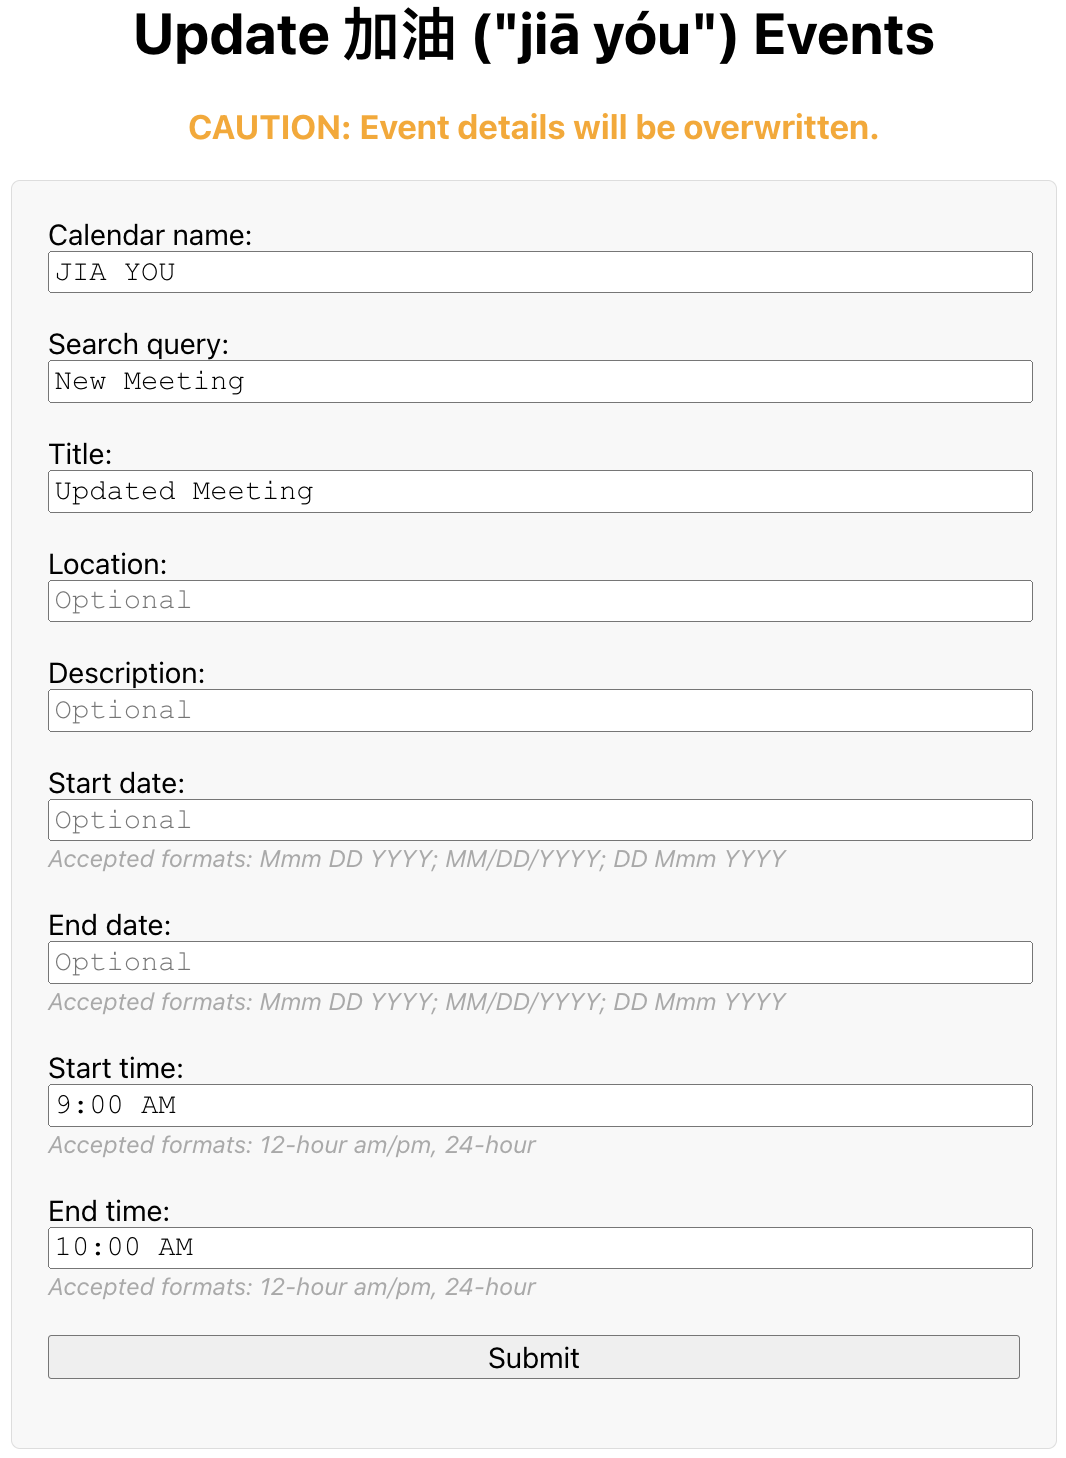
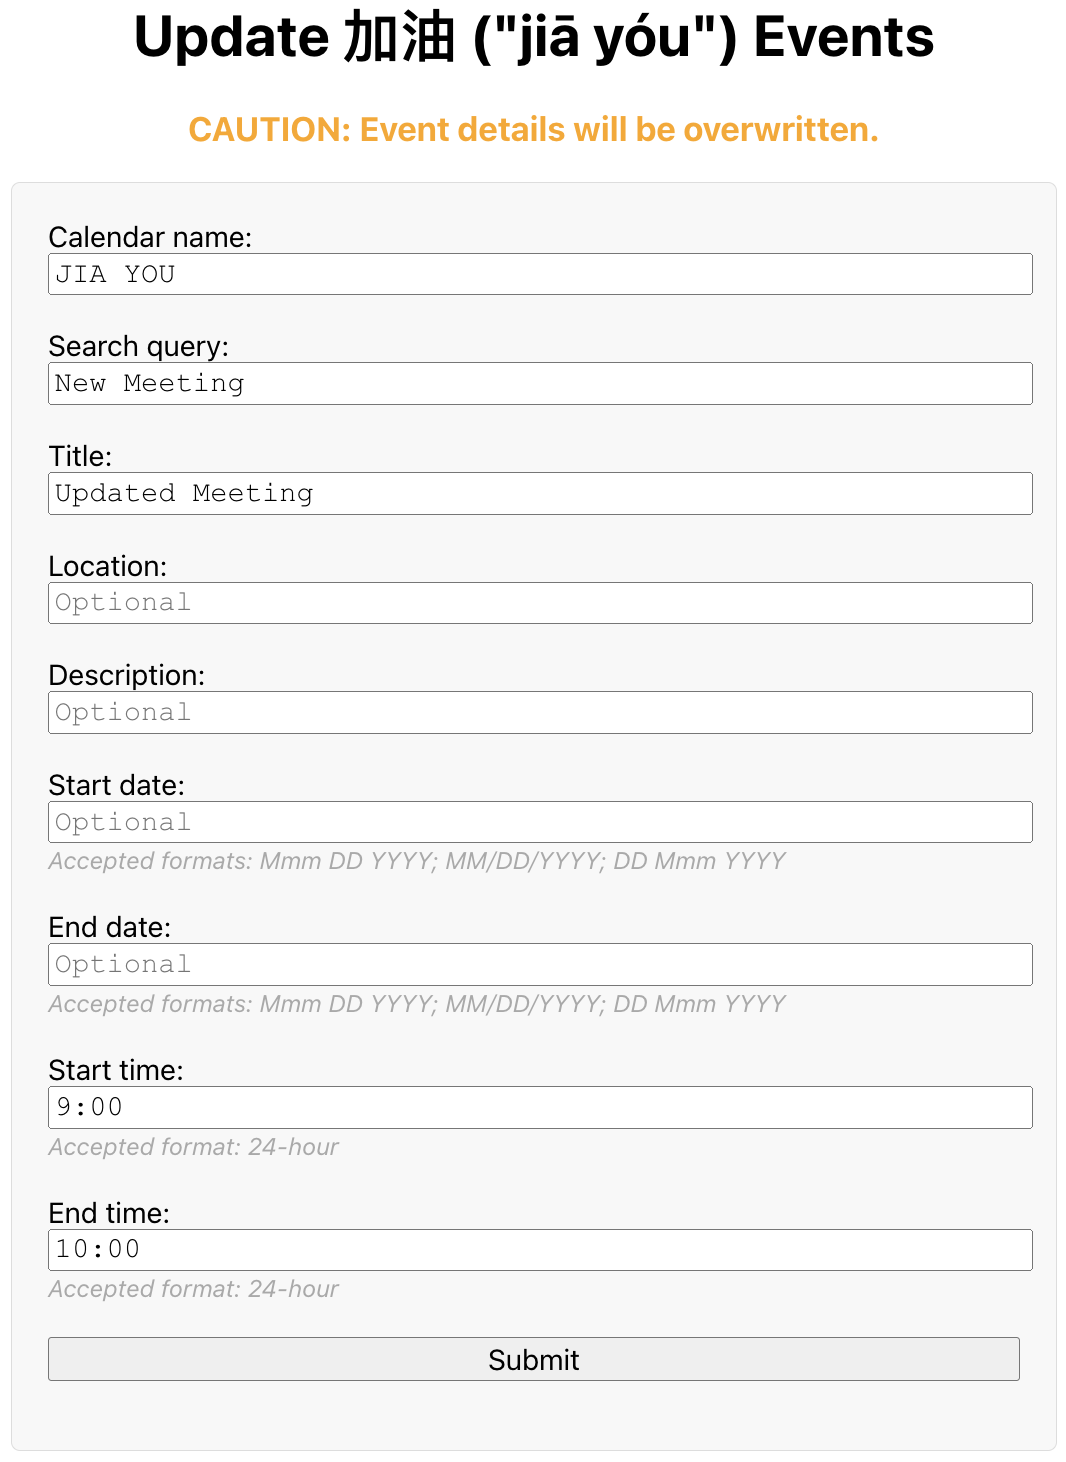
reverted time format

diff --git a/Index.html b/Index.html
@@ -75,15 +75,15 @@
       </br></br>
 
       <label for="startTime">Start time:</label>
-      <input type="text" id="startTime" name="startTime" value="9:00 AM" required></input>
+      <input type="text" id="startTime" name="startTime" value="9:00" required></input>
       <!-- prefilled for clarity -->
-      <text>Accepted formats: 12-hour am/pm, 24-hour</text>
+      <text>Accepted format: 24-hour</text>
       </br></br>
 
       <label for="endTime">End time:</label>
-      <input type="text" id="endTime" name="endTime" value="10:00 AM" required></input>
+      <input type="text" id="endTime" name="endTime" value="10:00" required></input>
       <!-- prefilled for clarity -->
-      <text>Accepted formats: 12-hour am/pm, 24-hour</text>
+      <text>Accepted format: 24-hour</text>
       </br></br>
 
       <input type="submit" value="Submit">
